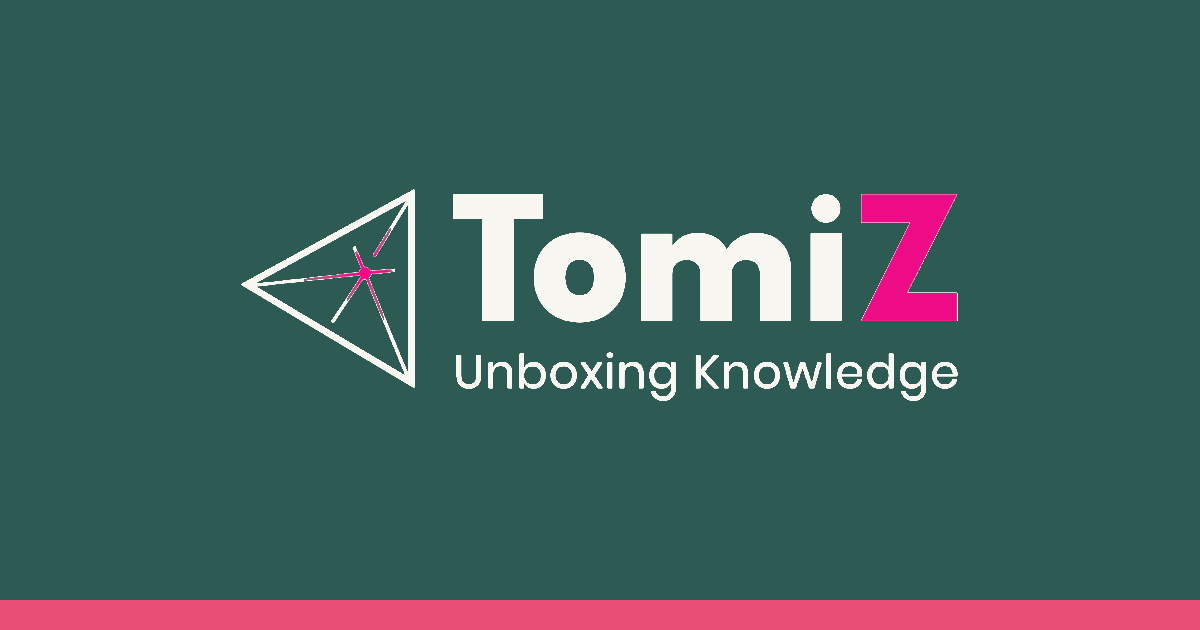
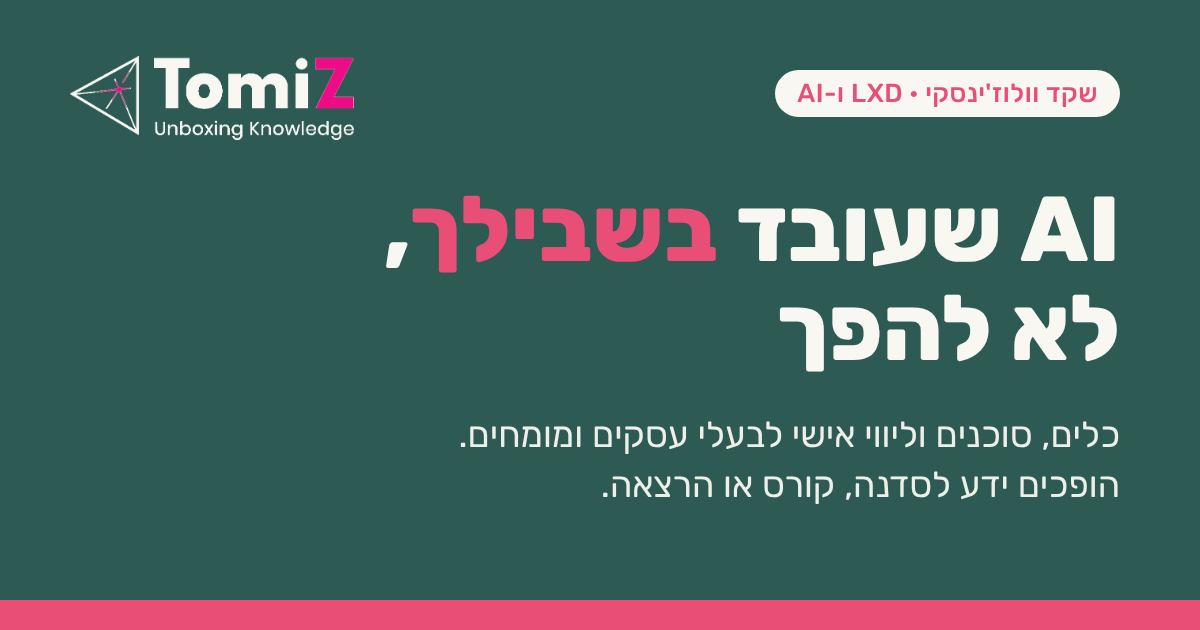
Home meta + OG image: AI-first positioning (draft, pending approval) (#2)
Claude-Session: https://claude.ai/code/session_013d7uMuGBfkpRoVx2akReHp

diff --git a/index.html b/index.html
@@ -3,12 +3,12 @@
 <head>
 <meta charset="utf-8">
 <meta name="viewport" content="width=device-width,initial-scale=1,viewport-fit=cover">
-<title>TomiZ · עיצוב למידה והעברת ידע</title>
-<meta name="description" content="סדנאות, תהליכי הדרכה והרצאות מעשיות על AI, למידה והעברת ידע, לארגונים, לקהילות ולבעלי מקצוע.">
+<title>TomiZ · AI שעובד בשבילך, לא להפך</title>
+<meta name="description" content="ליווי אישי וכלי AI מעשיים לבעלי עסקים, עצמאים ומומחים: סוכנים, דשבורדים ואוטומציות שחוסכים עבודה שחורה, והפיכת הידע שלך לסדנה, קורס או הרצאה. ולארגונים: הטמעת AI והעברת ידע.">
 <link rel="canonical" href="https://tomizs.com/">
 <link rel="alternate" hreflang="en" href="https://tomizs.com/en/">
-<meta property="og:title" content="TomiZ · עיצוב למידה והעברת ידע">
-<meta property="og:description" content="סדנאות, תהליכי הדרכה והרצאות מעשיות על AI, למידה והעברת ידע, לארגונים, לקהילות ולבעלי מקצוע.">
+<meta property="og:title" content="TomiZ · AI שעובד בשבילך, לא להפך">
+<meta property="og:description" content="ליווי אישי וכלי AI מעשיים לבעלי עסקים, עצמאים ומומחים: סוכנים, דשבורדים ואוטומציות שחוסכים עבודה שחורה, והפיכת הידע שלך לסדנה, קורס או הרצאה. ולארגונים: הטמעת AI והעברת ידע.">
 <meta property="og:url" content="https://tomizs.com/">
 <meta property="og:image" content="https://tomizs.com/assets/og.png">
 <meta property="og:locale" content="he_IL">

diff --git a/build.py b/build.py
@@ -36,7 +36,7 @@ ARTICLES_EN = json.loads(read('en/articles.json'))
 
 # page name -> (url path, title, description, nav key)
 PAGES = {
-    'home': ('/', 'TomiZ · עיצוב למידה והעברת ידע', 'סדנאות, תהליכי הדרכה והרצאות מעשיות על AI, למידה והעברת ידע, לארגונים, לקהילות ולבעלי מקצוע.', ''),
+    'home': ('/', 'TomiZ · AI שעובד בשבילך, לא להפך', 'ליווי אישי וכלי AI מעשיים לבעלי עסקים, עצמאים ומומחים: סוכנים, דשבורדים ואוטומציות שחוסכים עבודה שחורה, והפיכת הידע שלך לסדנה, קורס או הרצאה. ולארגונים: הטמעת AI והעברת ידע.', ''),
     'orgs': ('/orgs/', 'לארגונים · TomiZ', 'Unboxing, Train-the-Trainer, מיפוי פערי מיומנויות והטמעת AI לצוותי L&D ומשאבי אנוש.', 'orgs'),
     'experts': ('/experts/', 'למומחים · TomiZ', 'הידע שלך יכול להפוך למוצר: סדנה, קורס, מוצר דיגיטלי או כל פורמט אחר.', 'experts'),
     'talks': ('/talks/', 'הרצאות · TomiZ', 'למידה שמחזיקה מים: הרצאה לכנסים, ימי עיון, צוותי הדרכה ומשאבי אנוש.', 'talks'),
